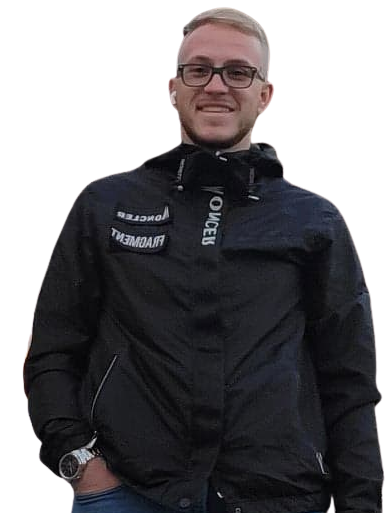
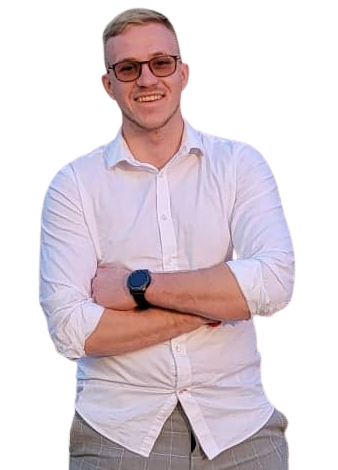
add new profile img

diff --git a/react_frontend/src/constants/images.js b/react_frontend/src/constants/images.js
@@ -23,7 +23,7 @@ import about02 from "../assets/about02.png";
 import about03 from "../assets/about03.png";
 import about04 from "../assets/about04.png";
 
-import profile from "../assets/profile.png";
+import profile from "../assets/r1.png";
 import circle from "../assets/circle.svg";
 import logo from "../assets/logo_sub1.png";
 

diff --git a/react_frontend/src/components/Navbar/Navbar.jsx b/react_frontend/src/components/Navbar/Navbar.jsx
@@ -7,7 +7,7 @@ import "./Navbar.scss";
 
 const Navbar = () => {
   const [toggle, setToggle] = useState(false);
-
+  
   return (
     <nav className="app__navbar">
       <div className="app__navbar-logo">
